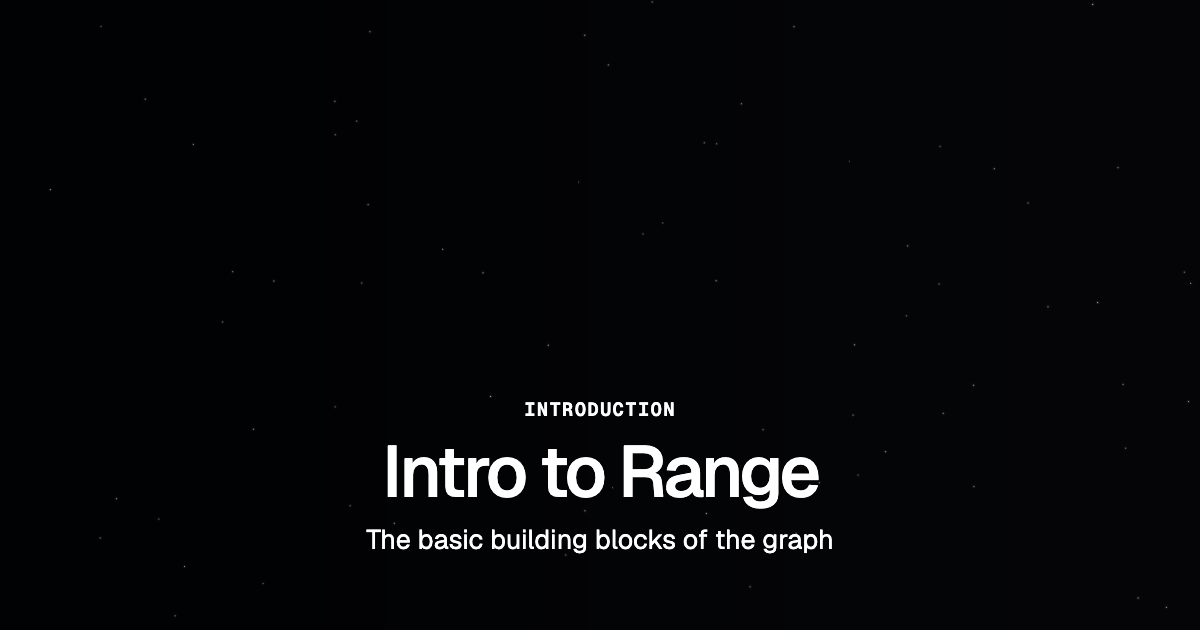
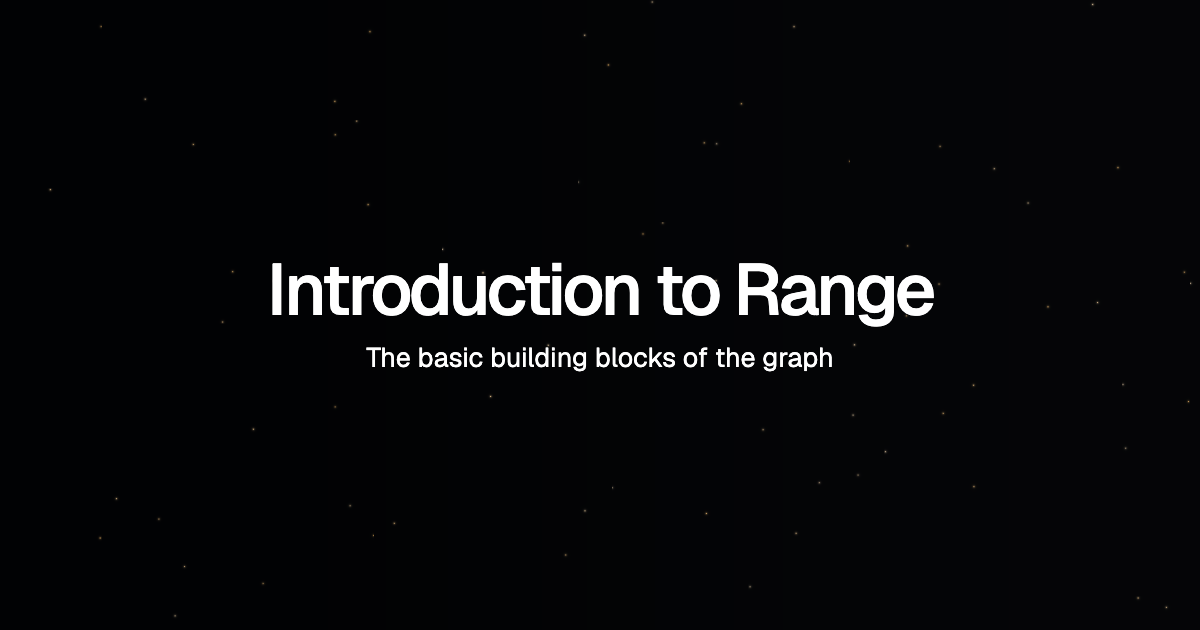
Center introduction social card

diff --git a/Website/src/lib/components/PostCard.svelte b/Website/src/lib/components/PostCard.svelte
@@ -53,7 +53,12 @@
   {#if social}
     {#if post.socialShader === "fibonacci-sphere"}
       <div class="socialSphereShader socialIntroShader">
-        <FibonacciSphereShader showSphere={false} fadeToPaper={false} vivid />
+        <FibonacciSphereShader
+          showSphere={false}
+          fadeToPaper={false}
+          starScale={1.35}
+          vivid
+        />
       </div>
     {:else if post.socialShader === "sphere-lines"}
       <div class="socialSphereShader">
@@ -153,10 +158,15 @@
 
   .socialPost:has(.socialIntroShader) .postCopy {
     inset: 0;
+    align-content: center;
     align-items: center;
     justify-content: center;
     padding: 72px;
     text-align: center;
+  }
+
+  .socialPost:has(.socialIntroShader) .postCopy small {
+    display: none;
   }
 
   .socialPost .postCopy small {

diff --git a/Website/src/lib/posts.ts b/Website/src/lib/posts.ts
@@ -1,5 +1,5 @@
 export const siteOrigin = "https://rangelang.org";
-const socialImageVersion = "2026-08-02-1";
+const socialImageVersion = "2026-08-02-2";
 
 export type Post = {
   slug: string;
@@ -24,7 +24,7 @@ export const posts: Post[] = [
     slug: "intro-to-range",
     href: "/posts/intro-to-range",
     category: "Introduction",
-    cardTitle: "Intro to Range",
+    cardTitle: "Introduction to Range",
     cardDescription: "The basic building blocks of the graph",
     description:
       "Range begins with Identity : Value, then binding intents and the three abstraction forms.",
